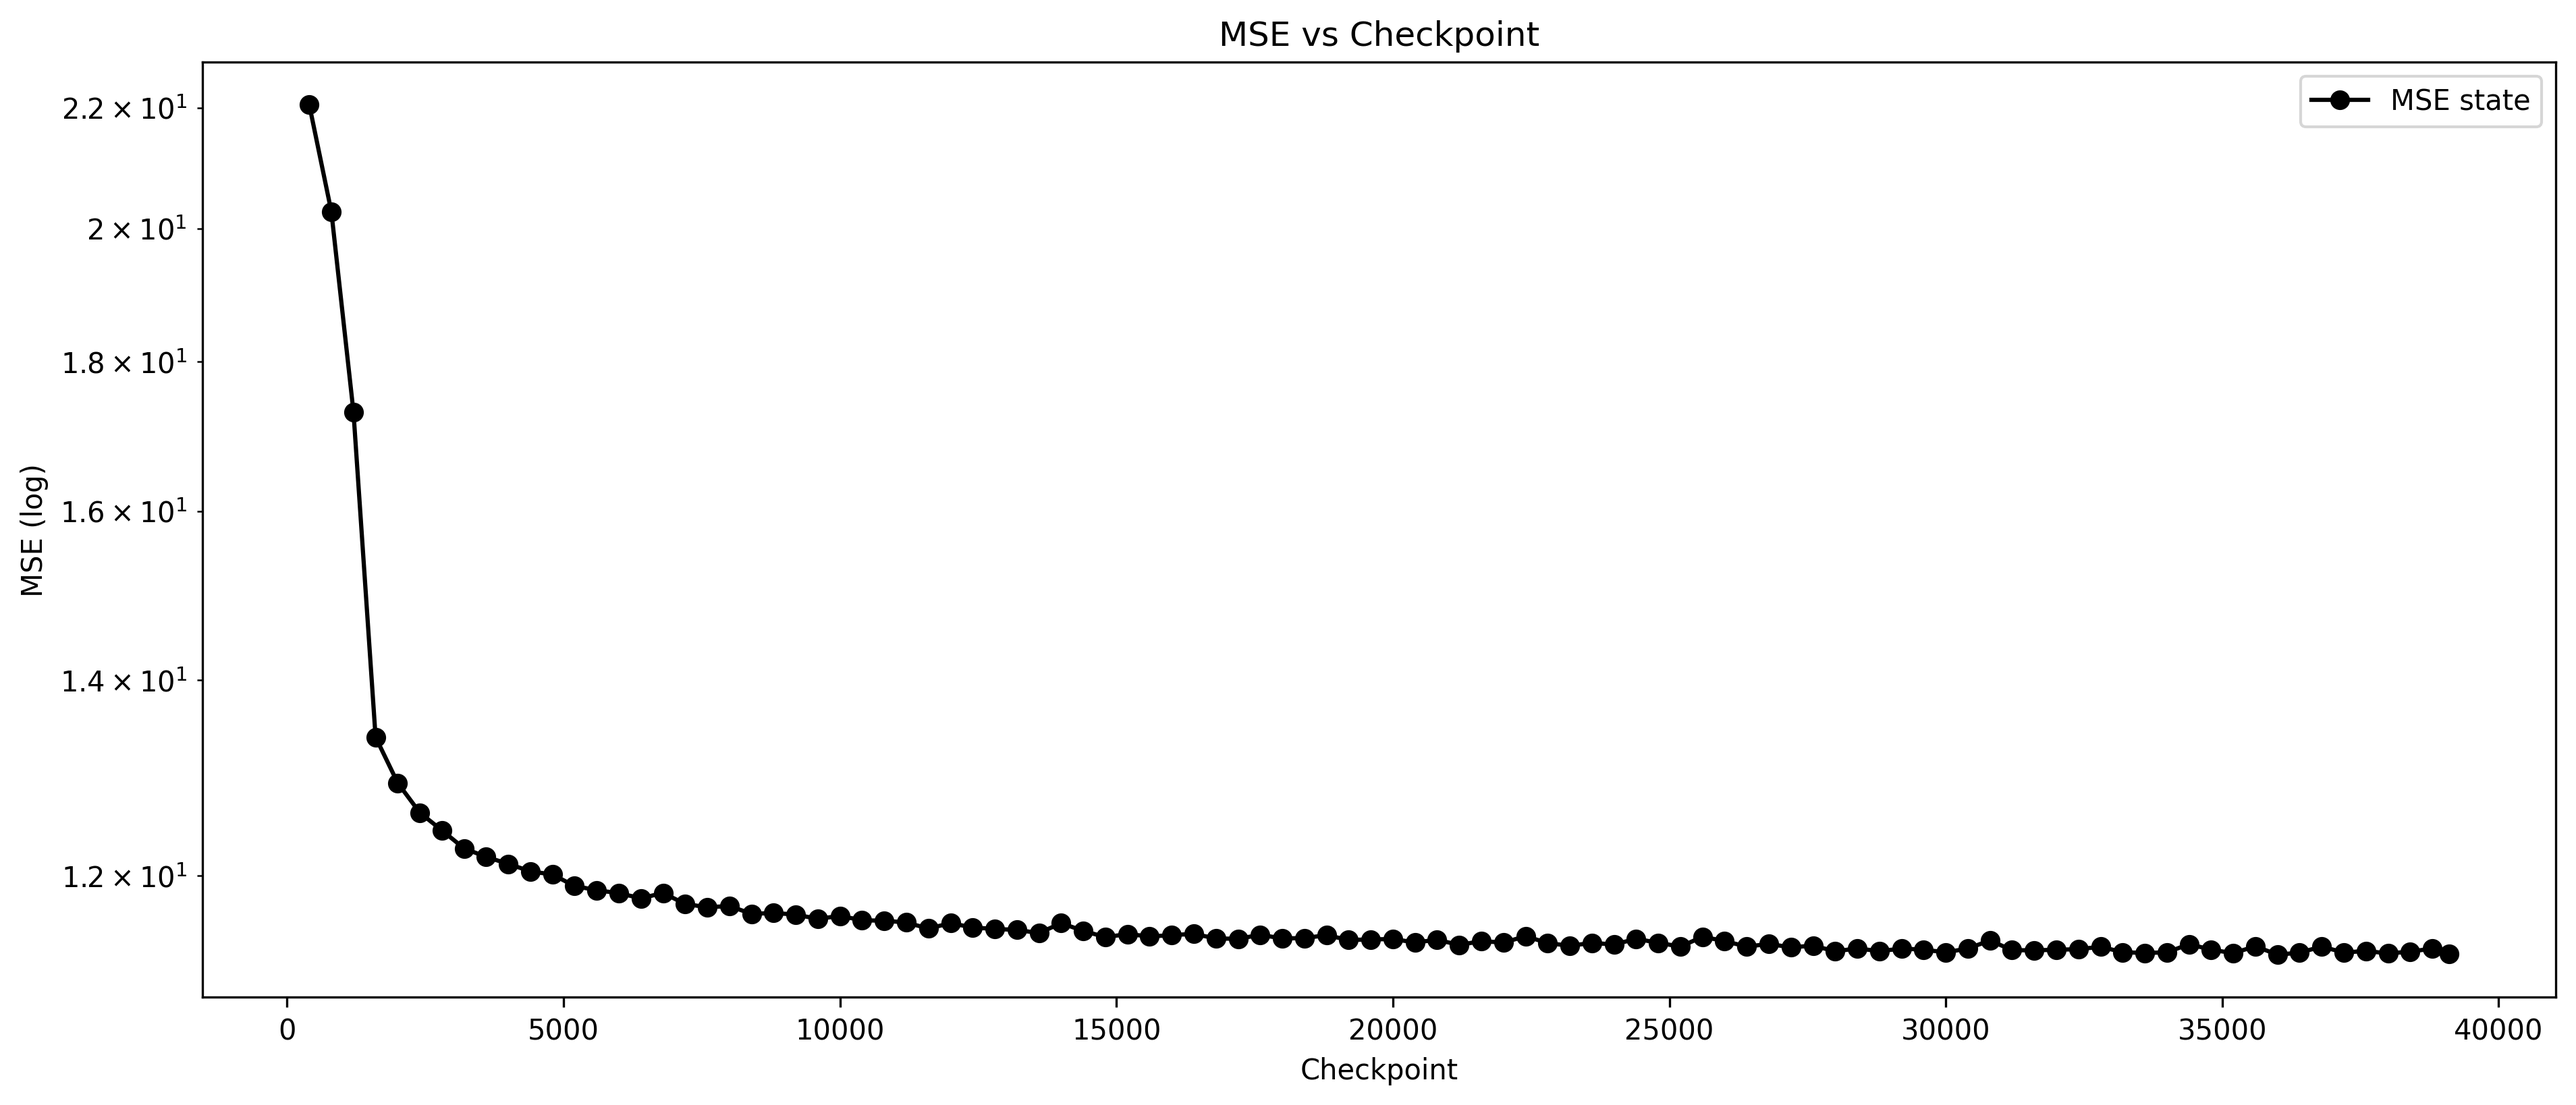
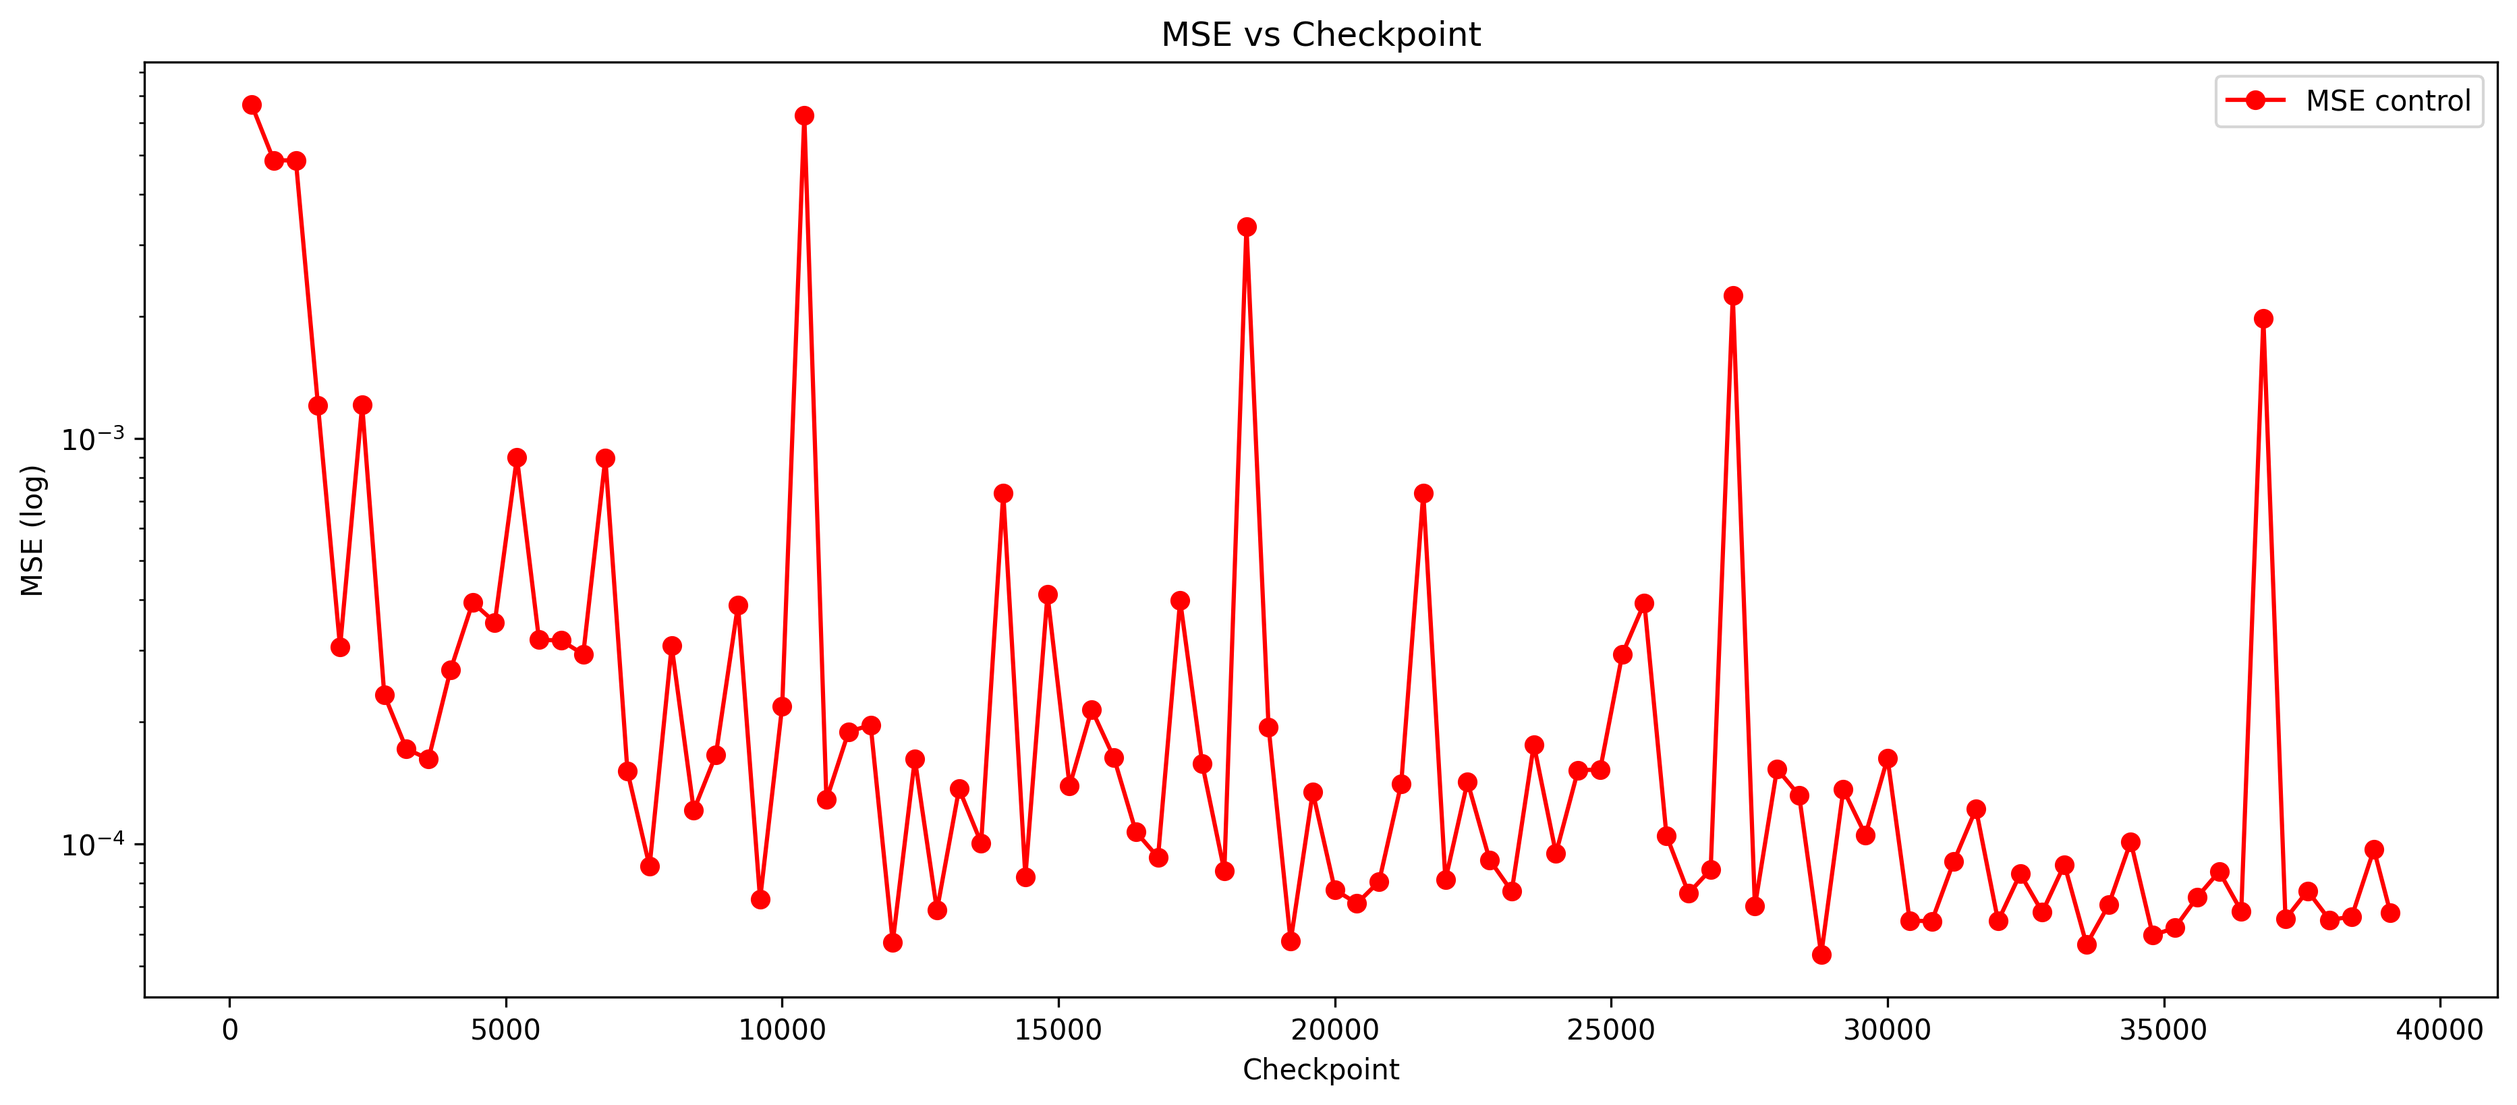
tweaking loss function and parameters.

diff --git a/test12_mse_y_axis.py b/test12_mse_y_axis.py
@@ -21,15 +21,15 @@ import re
 plot_label = 'mse_control'
 phase_plot_label = 'mse_control_phaseplot'
 mse_plot_label = 'mse_control_mseplot'
-save_results = "trainsteps39100_test_mse_control.txt"
-save_phase_plot = "trainsteps39100_test_mse_control.txt"
-log_info = "trainsteps39100_log_mse_control.txt"
+save_results = "trainsteps_test_mse_control.txt"
+save_phase_plot = "trainsteps_test_mse_control.txt"
+log_info = "trainsteps_log_mse_control.txt"
 model_name= "test"
-model_run_id= "9bb50653-5ed4-49c1-8dae-a876b2677236" #"3c33d621-e18a-4c4b-9844-54915b1de7b1"
-model_checkpoint_step= 39100
-model_checkpoint_epoch = 50
+model_run_id= "38bf57f0-0a4a-48ed-a423-ea4a38971179" #"9bb50653-5ed4-49c1-8dae-a876b2677236" #"3c33d621-e18a-4c4b-9844-54915b1de7b1"
+model_checkpoint_step= 97750
+model_checkpoint_epoch = 125
 folder_name = f"inference_run/{plot_label}_{model_checkpoint_step}_{model_run_id}"
-mode = 'train' # 'train', 'ood', 'indistr'
+mode = 'ood' # 'train', 'ood', 'indistr'
 
     
 
@@ -47,7 +47,7 @@ torch.manual_seed(1000)
 if torch.cuda.is_available():
     torch.cuda.manual_seed_all(1000)
 
-def mse(theta_model, thetadot_model, theta_rk4, thetadot_rk4):
+def mse(theta_model, thetadot_model, theta_rk4, thetadot_rk4, device):
     """
     Calculates the Mean Squared Error (MSE) between the predicted and true states.
 
@@ -61,11 +61,11 @@ def mse(theta_model, thetadot_model, theta_rk4, thetadot_rk4):
         float: The computed MSE value, representing the average squared difference between 
         the predicted and true states.
     """
-    xs_pred = torch.tensor(np.column_stack((theta_model, thetadot_model)), dtype=torch.float32)
-    xs_true = torch.tensor(np.column_stack((theta_rk4, thetadot_rk4)), dtype=torch.float32)
+    xs_pred = torch.tensor(np.column_stack((theta_model, thetadot_model)), dtype=torch.float32, device=device)
+    xs_true = torch.tensor(np.column_stack((theta_rk4, thetadot_rk4)), dtype=torch.float32, device=device)
     return (xs_true - xs_pred).pow(2).mean().item()
 
-def mse_controls(control_values_model, control_values_rk4):
+def mse_controls(control_values_model, control_values_rk4, device):
     """
     Calculates the Mean Squared Error (MSE) between the predicted and true control values.
 
@@ -77,8 +77,8 @@ def mse_controls(control_values_model, control_values_rk4):
         float: The computed MSE value, representing the average squared difference between 
         the predicted and true control values.
     """
-    control_pred = torch.tensor(control_values_model, dtype=torch.float32)
-    control_true = torch.tensor(control_values_rk4, dtype=torch.float32)
+    control_pred = torch.tensor(control_values_model, dtype=torch.float32, device=device)
+    control_true = torch.tensor(control_values_rk4, dtype=torch.float32, device=device)
     return (control_true - control_pred).pow(2).mean().item()
 
 # def load_model(run_dir, name, run_id, step):
@@ -135,7 +135,7 @@ def generate_random_X0():
     return [theta, thetadot]
 
 
-def run_inference_on_model(model, XData, YS, total_time, dt=0.01, context=1, start_index=1, mass = 1, length = 1):
+def run_inference_on_model(model, XData, YS, total_time, device, dt=0.01, context=1, start_index=1, mass = 1, length = 1):
     """
     Runs inference on a trained model to simulate the dynamics of a pendulum system over time, given an initial state and context data.
 
@@ -155,12 +155,13 @@ def run_inference_on_model(model, XData, YS, total_time, dt=0.01, context=1, sta
             - T (np.ndarray): Array of time steps during the simulation.
             - theta_model (np.ndarray): Array of predicted theta over time.
             - thetadot_model (np.ndarray): Array of predicted thetadot over time.
+            - YS_context (np.ndarray): Array of control inputs over time.
 
     Raises:
         AssertionError: If `start_index` is less than `context`.
     """
     assert start_index >= context, "start_index must be at least equal to context"
-    device = torch.device("cuda" if torch.cuda.is_available() else "cpu")
+    # device = torch.device("cuda" if torch.cuda.is_available() else "cpu")
     model = model.to(device)
   
     T = np.arange(0, total_time, dt)
@@ -209,7 +210,7 @@ def run_inference_on_model(model, XData, YS, total_time, dt=0.01, context=1, sta
     thetadot_model = XData_context[:, 1].cpu().numpy()
     YS_context = YS_context.cpu().numpy()
     # return T, theta_model, thetadot_model
-    return T, theta_model, thetadot_model #, YS_context
+    return T, theta_model, thetadot_model, YS_context
 
 def plot_and_log_results(x_axis, context_lengths, save_results_path, folder_name, plot_label):
     """
@@ -535,7 +536,9 @@ def main():
     # lengths = [lengths]
 
     ####################
+    device = torch.device("cuda:3" if torch.cuda.is_available() else "cpu")
     pends = np.random.randint(0, 5000, size=Num_of_pendulums)
+    # pends = [1050] 
     masses = []
     lengths = []
     X0s = []
@@ -576,6 +579,7 @@ def main():
         mse_results = {context_length: [] for context_length in contexts}
         mse_control_results = {context_length: [] for context_length in contexts}
         phase_data = {context_length: [] for context_length in contexts}
+        controls_data = {context_length: [] for context_length in contexts}
         counter = 0
         for mass, length in tqdm(zip(masses, lengths), desc="MultiPendulum", total=len(masses), leave=False):
             # X0 = generate_random_X0()
@@ -621,27 +625,37 @@ def main():
 
                 theta_rk4_temp = theta_rk4[context:]
                 thetadot_rk4_temp = thetadot_rk4[context:]
+                controls_rk4_temp = control_values_rk4[context:]
 
-                T_model, theta_model2, thetadot_model2 = run_inference_on_model(
-                    model, xs_dataset, control_values_rk4, total_time, dt, context=context, start_index=context, mass = mass, length = length
+                T_model, theta_model2, thetadot_model2, controls_model2 = run_inference_on_model(
+                    model, xs_dataset, control_values_rk4, total_time, device, dt, context=context, start_index=context, mass = mass, length = length
                 )
+
+                
                 # store_theta_model.append(theta_model2)
                 # store_thetadot_model.append(thetadot_model2)
 
                 trajectory = np.stack([theta_model2, thetadot_model2], axis=1)
+                controls_for_trajectory = controls_model2
                 phase_data[context].append(trajectory)
+                controls_data[context].append(controls_for_trajectory)
 
                 theta_model = theta_model2[context:]
                 thetadot_model = thetadot_model2[context:]
-                control_model = control_values_rk4[context:]
-                mse_loss = mse(theta_model, thetadot_model, theta_rk4_temp, thetadot_rk4_temp)
+                controls_model = controls_model2[context-1:]
+                # control_model = control_values_rk4[context:]
+                mse_loss = mse(theta_model, thetadot_model, theta_rk4_temp, thetadot_rk4_temp, device)
                 mse_per_context.append(mse_loss)
+
+                mse_control_loss = mse_controls(controls_model, controls_rk4_temp, device)
+                mse_control_per_context.append(mse_control_loss)
 
                 
 
 
             for idx, context_length in enumerate(contexts):
                 mse_results[context_length].append(mse_per_context[idx])
+                mse_control_results[context_length].append(mse_control_per_context[idx])
             counter += 1
             
         mse_mean = {context_length: np.mean(mse_results[context_length]) for context_length in contexts}
@@ -704,7 +718,7 @@ def main():
     # plot_and_log_results(x_axis, context_lengths, save_results_path, folder_name, phase_plot_label)
 
     # return X0, masses, lengths, store_theta_model, store_thetadot_model
-    return X0s_stored, masses, lengths, phase_data, data_and_controls, pends
+    return X0s_stored, masses, lengths, phase_data, controls_data, data_and_controls, pends
 
 try:
     results = main()

diff --git a/plotting_new.py b/plotting_new.py
@@ -119,9 +119,9 @@ def load_data(data_path):
         data = pickle.load(f)
     return data
 
-model_run_id = "9bb50653-5ed4-49c1-8dae-a876b2677236" #"3c33d621-e18a-4c4b-9844-54915b1de7b1"
-data_path = f'inference_run/mse_control_39100_{model_run_id}/results_maxcontext20_numpends1_indistr.pkl'
-X0s_stored, masses, lengths, phase_data, data_and_controls, pends = load_data(data_path)
+model_run_id = "38bf57f0-0a4a-48ed-a423-ea4a38971179" #"9bb50653-5ed4-49c1-8dae-a876b2677236" #"3c33d621-e18a-4c4b-9844-54915b1de7b1"
+data_path = f'inference_run/mse_control_97750_{model_run_id}/results_maxcontext20_numpends1_ood.pkl'
+X0s_stored, masses, lengths, phase_data, controls_data, data_and_controls, pends = load_data(data_path)
 # print(f'masses: {masses}')
 # print(f'lengths: {lengths}')
 '''
@@ -143,6 +143,8 @@ T = np.arange(0, total_time, dt)
 ground_truth_data_controls = data_and_controls[pendulum_index]
 theta_rk4 = (np.squeeze(ground_truth_data_controls[0]).cpu().detach().numpy())[:, 0]
 thetadot_rk4 = (np.squeeze(ground_truth_data_controls[0]).cpu().detach().numpy())[:, 1]
+control_values_rk4 = (np.squeeze(ground_truth_data_controls[1]).cpu().detach().numpy())
+
 
 
 plt.figure(figsize=(10, 6))
@@ -152,8 +154,10 @@ for context in phase_data.keys():
     plt.plot(phase_data[context][pendulum_index][:,0], phase_data[context][pendulum_index][:,1], label=f'Context: {context}', marker = 'o')
     # theta_dmd, thetadot_dmd = dynamic_mode_decomposition(phase_data[context][pendulum_index], X0s_stored[pendulum_index], total_time, dt, context)
     # plt.plot(theta_dmd, thetadot_dmd, label=f'DMD: Context {context}', marker = 'o')
-
-
+    if context == 6:
+        print(controls_data[context][pendulum_index])
+        print("------------------------------------------------")
+        print(control_values_rk4)
 
 plt.xlabel('Theta')
 plt.ylabel('Theta_dot')
@@ -173,7 +177,7 @@ for context in phase_data.keys():
 fig.update_layout(title='Phase Space', xaxis_title='Theta', yaxis_title='Theta_dot')
 # fig.write_image('multipendulum_phaseplot_plotly.png')
 # fig.write_html('multipendulum_phaseplot_plotly.html')
-fig.show()
+# fig.show()
 
 ###################################################################################################3
 ##### plotting mse vs context length + error bars for all pendulums
@@ -231,14 +235,15 @@ plt.xlabel('Context Length')
 plt.ylabel('MSE')
 plt.title('MSE vs Context Length')
 plt.savefig('multipendulum_mse_vs_context.png', bbox_inches='tight', dpi=300)
-plt.show()
+# plt.show()
 
 #############################################################################################
 ##### Plotting Checkpoint versus MSE
 # all_results = load_data('all_results_5pend_indistr_3c33d621-e18a-4c4b-9844-54915b1de7b1.pkl')
 # all_results = load_data('all_results_5pend_ood_3c33d621-e18a-4c4b-9844-54915b1de7b1.pkl')
-# all_results = load_data('all_results_5pend_indistr_9bb50653-5ed4-49c1-8dae-a876b2677236.pkl')
-all_results = load_data('all_results_5pend_ood_9bb50653-5ed4-49c1-8dae-a876b2677236.pkl')
+all_results = load_data('all_results_5pend_indistr_9bb50653-5ed4-49c1-8dae-a876b2677236.pkl')
+# all_results = load_data('all_results_5pend_ood_9bb50653-5ed4-49c1-8dae-a876b2677236.pkl')
+# all_results = load_data('all_results_5pend_ood_38bf57f0-0a4a-48ed-a423-ea4a38971179.pkl')
 mse_results = all_results['mse_results']
 mse_controls_results = all_results['mse_controls_results']
 checkpoints = list(mse_results.keys())
@@ -253,9 +258,9 @@ min_mse_controls_values = {step: np.min(mse_values) for step, mse_values in mse_
 max_mse_controls_values = {step: np.max(mse_values) for step, mse_values in mse_controls_results.items()}
 plt.figure(figsize=(15, 6))
 # plt.plot(checkpoints, mse_values, marker='o', color='black')
-plt.plot(checkpoints, list(median_mse_values.values()), marker='o', color='black', label='MSE state')
+# plt.plot(checkpoints, list(median_mse_values.values()), marker='o', color='black', label='MSE state')
 # plt.fill_between(checkpoints, list(min_mse_values.values()), list(max_mse_values.values()), color='gray', alpha=0.5)
-# plt.plot(checkpoints, list(median_mse_controls_values.values()), marker='o', color='red', label='MSE control')
+plt.plot(checkpoints, list(median_mse_controls_values.values()), marker='o', color='red', label='MSE control')
 # plt.fill_between(checkpoints, list(min_mse_controls_values.values()), list(max_mse_controls_values.values()), color='pink', alpha=0.5)
 plt.legend()
 plt.yscale('log')

diff --git a/trainSequential.py b/trainSequential.py
@@ -206,11 +206,13 @@ def train_step(model, xs, ys, optimizer, loss_func, i, args, mass, length, b=0.5
     optimizer.zero_grad()
     output = model(xs, ys)
     loss = loss_func(output, ys)
+    lambda_coeff2 = 1e-4
+    smoothness_loss = lambda_coeff2 * torch.mean((output[:, 2:] - 2 * output[:, 1:-1] + output[:, :-2])**2) * 1e8
     # lyapunov_loss_value = lyapunov_loss(xs, output)
     # lyapunov_loss_value = lyapunov_loss(xs, ys, mass, length, b, g)
     # lyapunov_loss_value = lyapunov_loss(xs, output, mass, length, b, g)
 
-    total_loss = loss #+ lyapunov_loss_value
+    total_loss = loss + smoothness_loss
     # total_loss = lyapunov_loss_value
     total_loss = total_loss.to(xs.device).requires_grad_(True)
 
@@ -222,7 +224,7 @@ def train_step(model, xs, ys, optimizer, loss_func, i, args, mass, length, b=0.5
         log_training_info(file_path, i, args, xs, ys, output, total_loss)
 
     total_loss.backward()
-    # torch.nn.utils.clip_grad_norm_(model.parameters(), max_norm=2.0)
+    torch.nn.utils.clip_grad_norm_(model.parameters(), max_norm=1.0)
     grad_norm = sum(p.grad.detach().data.norm(2).item() ** 2 for p in model.parameters() if p.grad is not None) ** 0.5
 
     optimizer.step()
@@ -619,6 +621,7 @@ def evaluate_model(model, id_data, ood_data, loss_func):
 
     id_loss = 0.0
     ood_loss = 0.0
+    lambda_coeff2 = 1e-4
 
     id_loader = DataLoader(id_data, batch_size=64, shuffle=True)
     # for xs, ys in id_loader:
@@ -637,6 +640,9 @@ def evaluate_model(model, id_data, ood_data, loss_func):
 
 
             loss = loss_func(output, ys)
+            smoothness_loss = lambda_coeff2 * torch.mean((output[:, 2:] - 2 * output[:, 1:-1] + output[:, :-2])**2) * 1e8
+            loss = loss + smoothness_loss
+        
             # loss = lyapunov_loss(xs, ys, masses, lengths)
             id_loss += loss.item()
     id_loss /= len(id_loader)
@@ -651,6 +657,8 @@ def evaluate_model(model, id_data, ood_data, loss_func):
             ys = ys.cuda(3)
             output = model(xs, ys)
             loss = loss_func(output, ys)
+            smoothness_loss = lambda_coeff2 * torch.mean((output[:, 2:] - 2 * output[:, 1:-1] + output[:, :-2])**2) * 1e8
+            loss = loss + smoothness_loss
             # loss = lyapunov_loss(xs, ys, masses, lengths)
             ood_loss += loss.item()
     ood_loss /= len(ood_loader)
@@ -1111,7 +1119,7 @@ def main(args):
         )
 
     model = build_model(args.model)
-    device_ids = [3, 0]
+    device_ids = [3, 2]
     model = torch.nn.DataParallel(model, device_ids=device_ids)
     model = model.to('cuda:3')
     # model.cuda()

diff --git a/evaluate_checkpoints.py b/evaluate_checkpoints.py
@@ -258,9 +258,9 @@ def get_checkpoints_from_folder(run_dir, name, run_id):
     return sorted_files, epochs, steps
 
 model_name= "test"
-model_run_id= "9bb50653-5ed4-49c1-8dae-a876b2677236" #"3c33d621-e18a-4c4b-9844-54915b1de7b1"
-mode = "indistr" # "indistr" or "ood"
-device = torch.device("cuda:0" if torch.cuda.is_available() else "cpu")
+model_run_id= "38bf57f0-0a4a-48ed-a423-ea4a38971179"
+mode = "ood" # "indistr" or "ood"
+device = torch.device("cuda:2" if torch.cuda.is_available() else "cpu")
 # model_checkpoint_step= 400 #125000
 # model_checkpoint_epoch = 1 #50
 phase = 1
@@ -312,8 +312,11 @@ for epoch, step, file in zip(epochs, steps, files):
 #         # continue
 
 # import pdb; pdb.set_trace()
+num_pends = 10
+# pends = np.random.choice(np.arange(0, 5, 1), 5, replace=False)
+pends = np.random.choice(np.arange(0, 5000, 1), num_pends, replace=False)
 
-pends = np.random.choice(np.arange(0, 5, 1), 5, replace=False)
+
 masses = []
 lengths = []
 X0s = []
